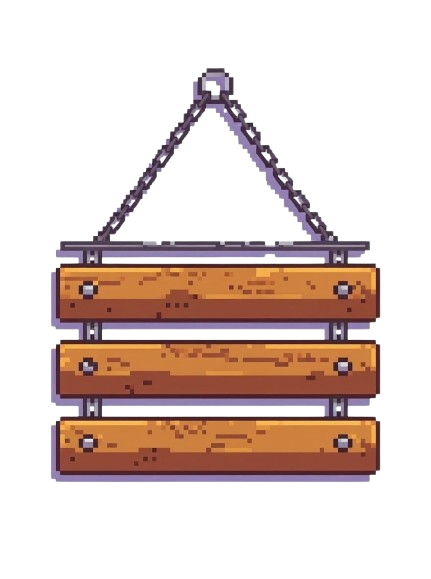
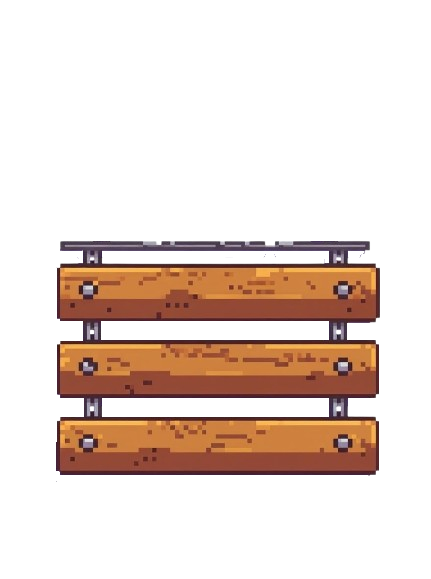
Added compass bar and button functionality

diff --git a/Term 3 Assesment game/main.py b/Term 3 Assesment game/main.py
@@ -57,7 +57,55 @@ class Player (pygame.sprite.Sprite):
         self.player_imput()
 
 
+class Button(pygame.sprite.Sprite):
+    def __init__(self, type):
+        super().__init__()
+        self.type = type
+
+        self.image = pygame.image.load("images/Wooden_plank.png").convert_alpha()
         
+
+        self.x_pos = 600
+        if type == 'top':
+            self.y_pos = 280
+            
+        if type == 'middle':
+            self.y_pos = 372
+            
+        if type == 'bottom':
+            self.y_pos = 464
+        
+        
+    
+        # self.image = pygame.transform.scale(self.image,(360,65))
+        self.rect = self.image.get_rect(center = (self.x_pos, self.y_pos))
+
+    def check_click(self,mouse_pos,event):
+        clicked = None
+        if self.rect.collidepoint(mouse_pos):
+            if event.type == pygame.MOUSEBUTTONDOWN:
+                if plank.type == 'top':
+                    clicked = 1
+                if plank.type == 'middle':
+                    clicked = 2
+                if plank.type == 'bottom':
+                    clicked = 3       
+        return clicked
+            
+        
+        
+        
+        
+            
+
+
+    
+    
+    def update(self):
+        self.draw(screen)
+        self.check_click(pygame.mouse.get_pos())
+        
+    
 
 # starts pygame
 pygame.init() 
@@ -69,7 +117,7 @@ screen = pygame.display.set_mode((1200,675))
 pygame.display.set_caption("Ultimate Pygame")
 
 #creating font
-pacific_font = pygame.font.Font('Font/Pacifico-regular.ttf',50)
+pacific_font = pygame.font.Font('Font/Pacifico-regular.ttf',75)
 pixel_font = pygame.font.Font('Font/Pixeltype.ttf',50)
 
 # sets the frame rate of the game.
@@ -99,23 +147,39 @@ tilt = (920 + wind_strength)
 
 
 #title
-title_surf = pixel_font.render('Pacific Pursuit', True,"#006439")
-title_rec = title_surf.get_rect(center = (600,373))
+title_surf = pacific_font.render('Pacific Pursuit', True,"#5fa8a9")
+title_rec = title_surf.get_rect(center = (600,144))
 
 plank_surf = pygame.image.load("images/Wooden_plank.png").convert_alpha()
 plank_rect = plank_surf.get_rect(center = (600, 337))
 
 hanging_sign = pygame.image.load("images/Hanging_Sign-removebg-preview.png").convert_alpha()
 hanging_sign = pygame.transform.scale(hanging_sign,(500,700))
-hanging_sign_rec = hanging_sign.get_rect(center = (600, 300))
+hanging_sign_rec = hanging_sign.get_rect(center = (600, 275))
 
 #blurb
 
-info_surf = pixel_font.render('Press Space to Start, Press esacpe to quit, Press "h" for how to play',True,('#006439'))
-info_surf = pygame.transform.scale(info_surf,(1000,50))
-info_surf_rec = info_surf.get_rect(midbottom = (600, 500))
+start_surf = pacific_font.render('START',True,("#342218"))
+start_surf = pygame.transform.scale(start_surf,(200,50))
+start_surf_rec = start_surf.get_rect(midbottom = (600, 305))
+
+how_surf = pacific_font.render('How To Play',True,("#342218"))
+how_surf = pygame.transform.scale(how_surf,(200,50))
+how_surf_rec = how_surf.get_rect(midbottom = (600, 400))
+
+quit_surf = pacific_font.render('QUIT',True,("#342218"))
+quit_surf = pygame.transform.scale(quit_surf,(200,50))
+quit_surf_rec = quit_surf.get_rect(midbottom = (600, 490))
 
 
+#buttons
+top = 'top'
+middle = 'middle'
+bottom = 'bottom'
+button = pygame.sprite.Group()
+button.add(Button(top))
+button.add(Button(middle))
+button.add(Button(bottom))
 
 
 # images
@@ -141,18 +205,20 @@ while True:
         if event.type == pygame.QUIT:
             pygame.quit() # oposite of pygame.init()
             exit()
+
         if game_state == 2:
-            if event.type == pygame.KEYDOWN and event.key == pygame.K_SPACE:
-                game_state = 1   
-            if event.type == pygame.KEYDOWN and event.key == pygame.K_h :
-             game_state = 3
-                
-            if event.type == pygame.KEYDOWN and event.key == pygame.K_ESCAPE:
-                pygame.quit()
-                exit()
-        if game_state == 3:
-            if event.type == pygame.KEYDOWN and event.key == pygame.K_ESCAPE:
-                game_state = 2
+            for plank in button:
+                mouse_pos = pygame.mouse.get_pos()
+                type_button_clicked = plank.check_click(mouse_pos,event)
+                if type_button_clicked == 1:
+                    game_state = 1
+                if type_button_clicked == 2:
+                    game_state = 3
+                if type_button_clicked == 3:
+                    pygame.quit()
+                    exit()
+            
+            
 
 
        
@@ -165,7 +231,7 @@ while True:
 
     #main gameplay
     if game_state == 1:
-        screen.blit(background_surf,(0,-150))
+        screen.blit(background_surf,(0,0))
         #compass and wind
         if wind_right:
             
@@ -189,19 +255,20 @@ while True:
             
         if tilt >= 980:
             tilt = 980
-        print(tilt)
+        
 
         if wind_strength > 180:
             wind_strength = 180
         if wind_strength < -180:
             wind_strength = -180
-        print(wind_strength)
+        
             
         compass_direction_rect.x = tilt
         
         screen.blit(compass_direction,compass_direction_rect)
         screen.blit(compass_bar,compass_bar_rect)
-        
+        pygame.draw.rect(screen,"#000000FF",(772,90,250,20))
+        pygame.draw.rect(screen,"#000000FF",(1178,90,22,20))
 
 
 
@@ -213,21 +280,22 @@ while True:
     #title and game over screen
     if game_state == 2:
 
-        screen.blit(background_surf,(0,-150))
-        pygame.draw.rect(screen,"#C59568FF",(300,20,600,575))
-        pygame.draw.rect(screen,"#3C2005FF",(300,20,600,575),10)
-        screen.blit(hanging_sign,hanging_sign_rec)
-        # screen.blit(plank_surf,plank_rect)
-        # screen.blit(plank_surf,(plank_rect.x,plank_rect.y + 100))
-        # screen.blit(plank_surf,(plank_rect.x,plank_rect.y - 100))
+        screen.blit(background_surf,(0,0))
+        pygame.draw.rect(screen,"#c3dbdb",(title_rec.x-10 ,title_rec.y+10,title_rec.width + 30,title_rec.height))
+        pygame.draw.rect(screen,"#6E6F71FF",(title_rec.x-10 ,title_rec.y+10,title_rec.width + 30,title_rec.height),10)
         
-        screen.blit(info_surf,info_surf_rec)
         screen.blit(title_surf,title_rec)
-        
+        screen.blit(hanging_sign,hanging_sign_rec)
+        button.draw(screen)
+        screen.blit(start_surf,start_surf_rec)
+        screen.blit(how_surf,how_surf_rec)
+        screen.blit(quit_surf,quit_surf_rec)
     if game_state == 3:
         screen.blit(background_surf,(0,-150))
         pygame.draw.rect(screen,"#673506FF",(50,25,1100,625))
         pygame.draw.rect(screen,"#2C2C2CCC",(50,25,1100,625),10,2)
+
+        
         
 
         
